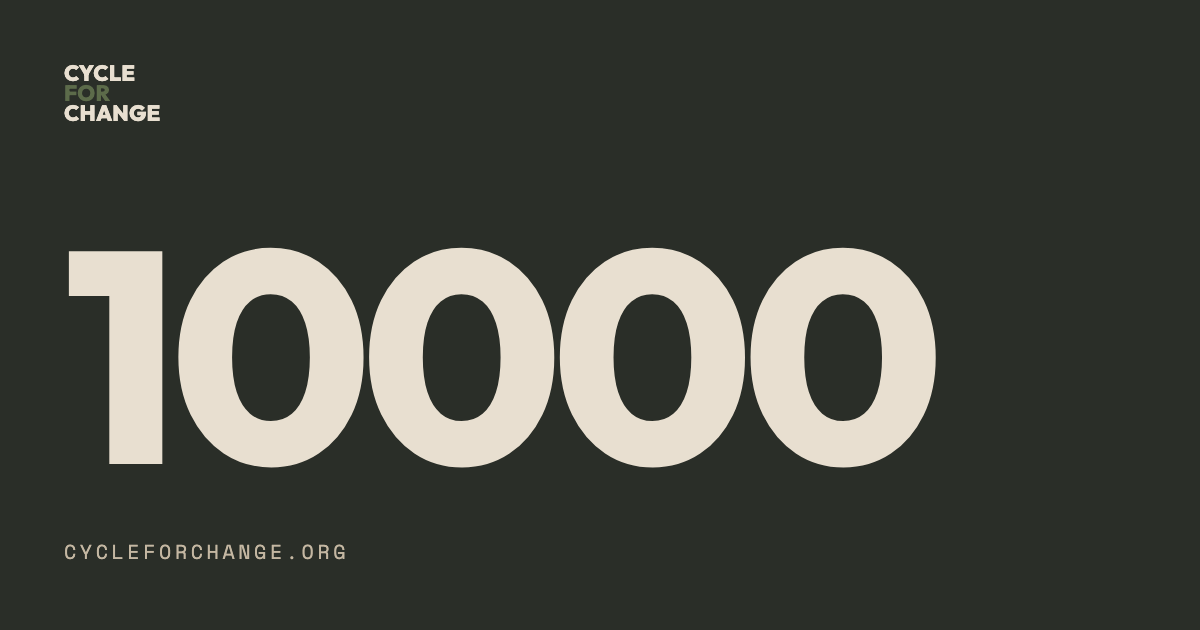
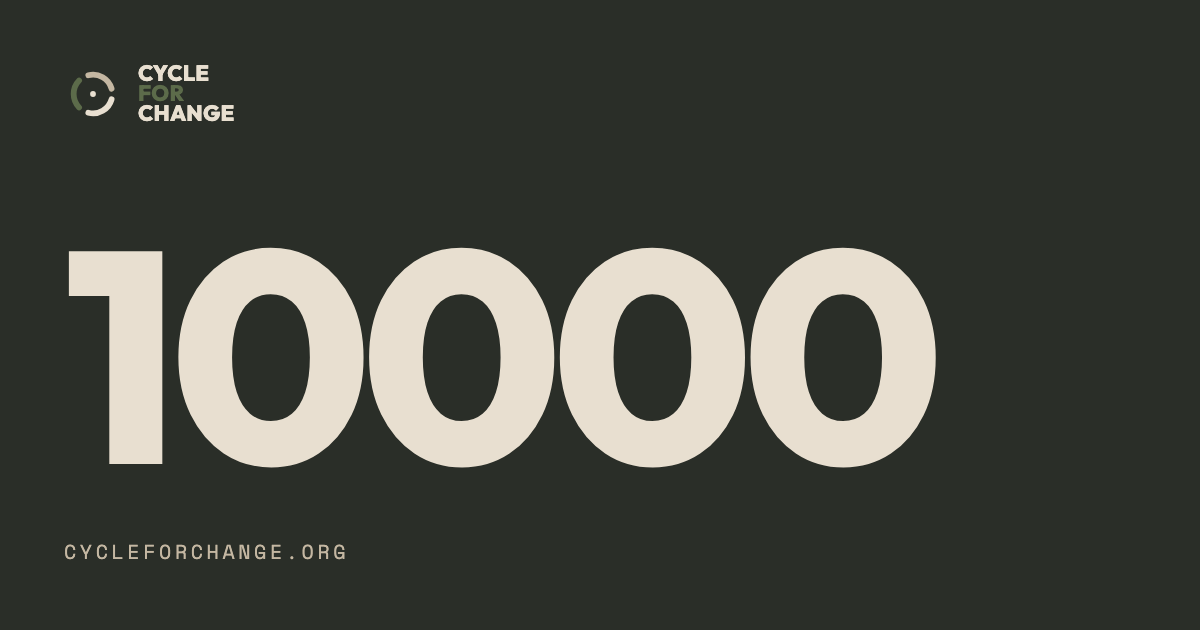
Merge the triad roundel into the new lockup (variant A)
The old three-arc mark from the previous homepage, restruck in the Creosote
palette and locked up with the stacked wordmark.

- mark.svg: same three arcs, same geometry, same centre dot as the mark that
  was on the old homepage. Asphalt / creosote / dust instead of plum, acid
  yellow and lavender.
- Header is now mark + stacked wordmark, inline SVG so it costs no request.
- favicon.svg is the roundel on asphalt, two-tone (bone + creosote) so it
  doesn't turn to mud at 16px. This replaces the 10K cut, and it also kills
  the font dependency the 10K version had — it was set as SVG <text>, which
  would have rendered in Helvetica for anyone without Outfit installed.
- favicon-180.png regenerated from the new mark. It was still the old plum /
  yellow / lavender triad, so anyone saving the page to a home screen got the
  retired brand.
- OG card picks up the lockup.

10000 is still the only thing at size on the page; the mark sits at 44px in
the corner and doesn't compete with it.

Changed region(s): [[0.0308, 0.0905, 0.2158, 0.2111]]

diff --git a/cfc-site/index.html b/cfc-site/index.html
@@ -33,7 +33,15 @@
 
 <header class="site-head">
   <a class="mark" href="/" aria-label="Cycle for Change home">
-    <span class="mark-l">Cycle</span><span class="mark-l mark-for">For</span><span class="mark-l">Change</span>
+    <svg class="mark-glyph" viewBox="0 0 120 120" aria-hidden="true" focusable="false">
+      <path d="M98.45 71.03 A40 40 0 0 1 50.32 98.81" fill="none" stroke="#2A2E28" stroke-width="12" stroke-linecap="round"/>
+      <path d="M31.23 87.79 A40 40 0 0 1 31.23 32.21" fill="none" stroke="#5C6B4A" stroke-width="12" stroke-linecap="round"/>
+      <path d="M50.32 21.19 A40 40 0 0 1 98.45 48.97" fill="none" stroke="#C4B7A2" stroke-width="12" stroke-linecap="round"/>
+      <circle cx="60" cy="60" r="6" fill="#2A2E28"/>
+    </svg>
+    <span class="mark-type">
+      <span class="mark-l">Cycle</span><span class="mark-l mark-for">For</span><span class="mark-l">Change</span>
+    </span>
   </a>
 </header>
 

diff --git a/cfc-site/coming-soon.css b/cfc-site/coming-soon.css
@@ -65,7 +65,9 @@ a{color:inherit}
 }
 
 .mark{
-  display:inline-block;
+  display:inline-flex;
+  align-items:center;
+  gap:clamp(10px,1.2vw,14px);
   text-decoration:none;
   font-family:var(--display);
   font-weight:800;
@@ -74,6 +76,12 @@ a{color:inherit}
   letter-spacing:.01em;
   text-transform:uppercase;
 }
+.mark-glyph{
+  flex:0 0 auto;
+  width:clamp(34px,3.6vw,44px);
+  height:auto;
+}
+.mark-type{display:block}
 .mark-l{display:block}
 .mark-for{color:var(--creosote)}
 
